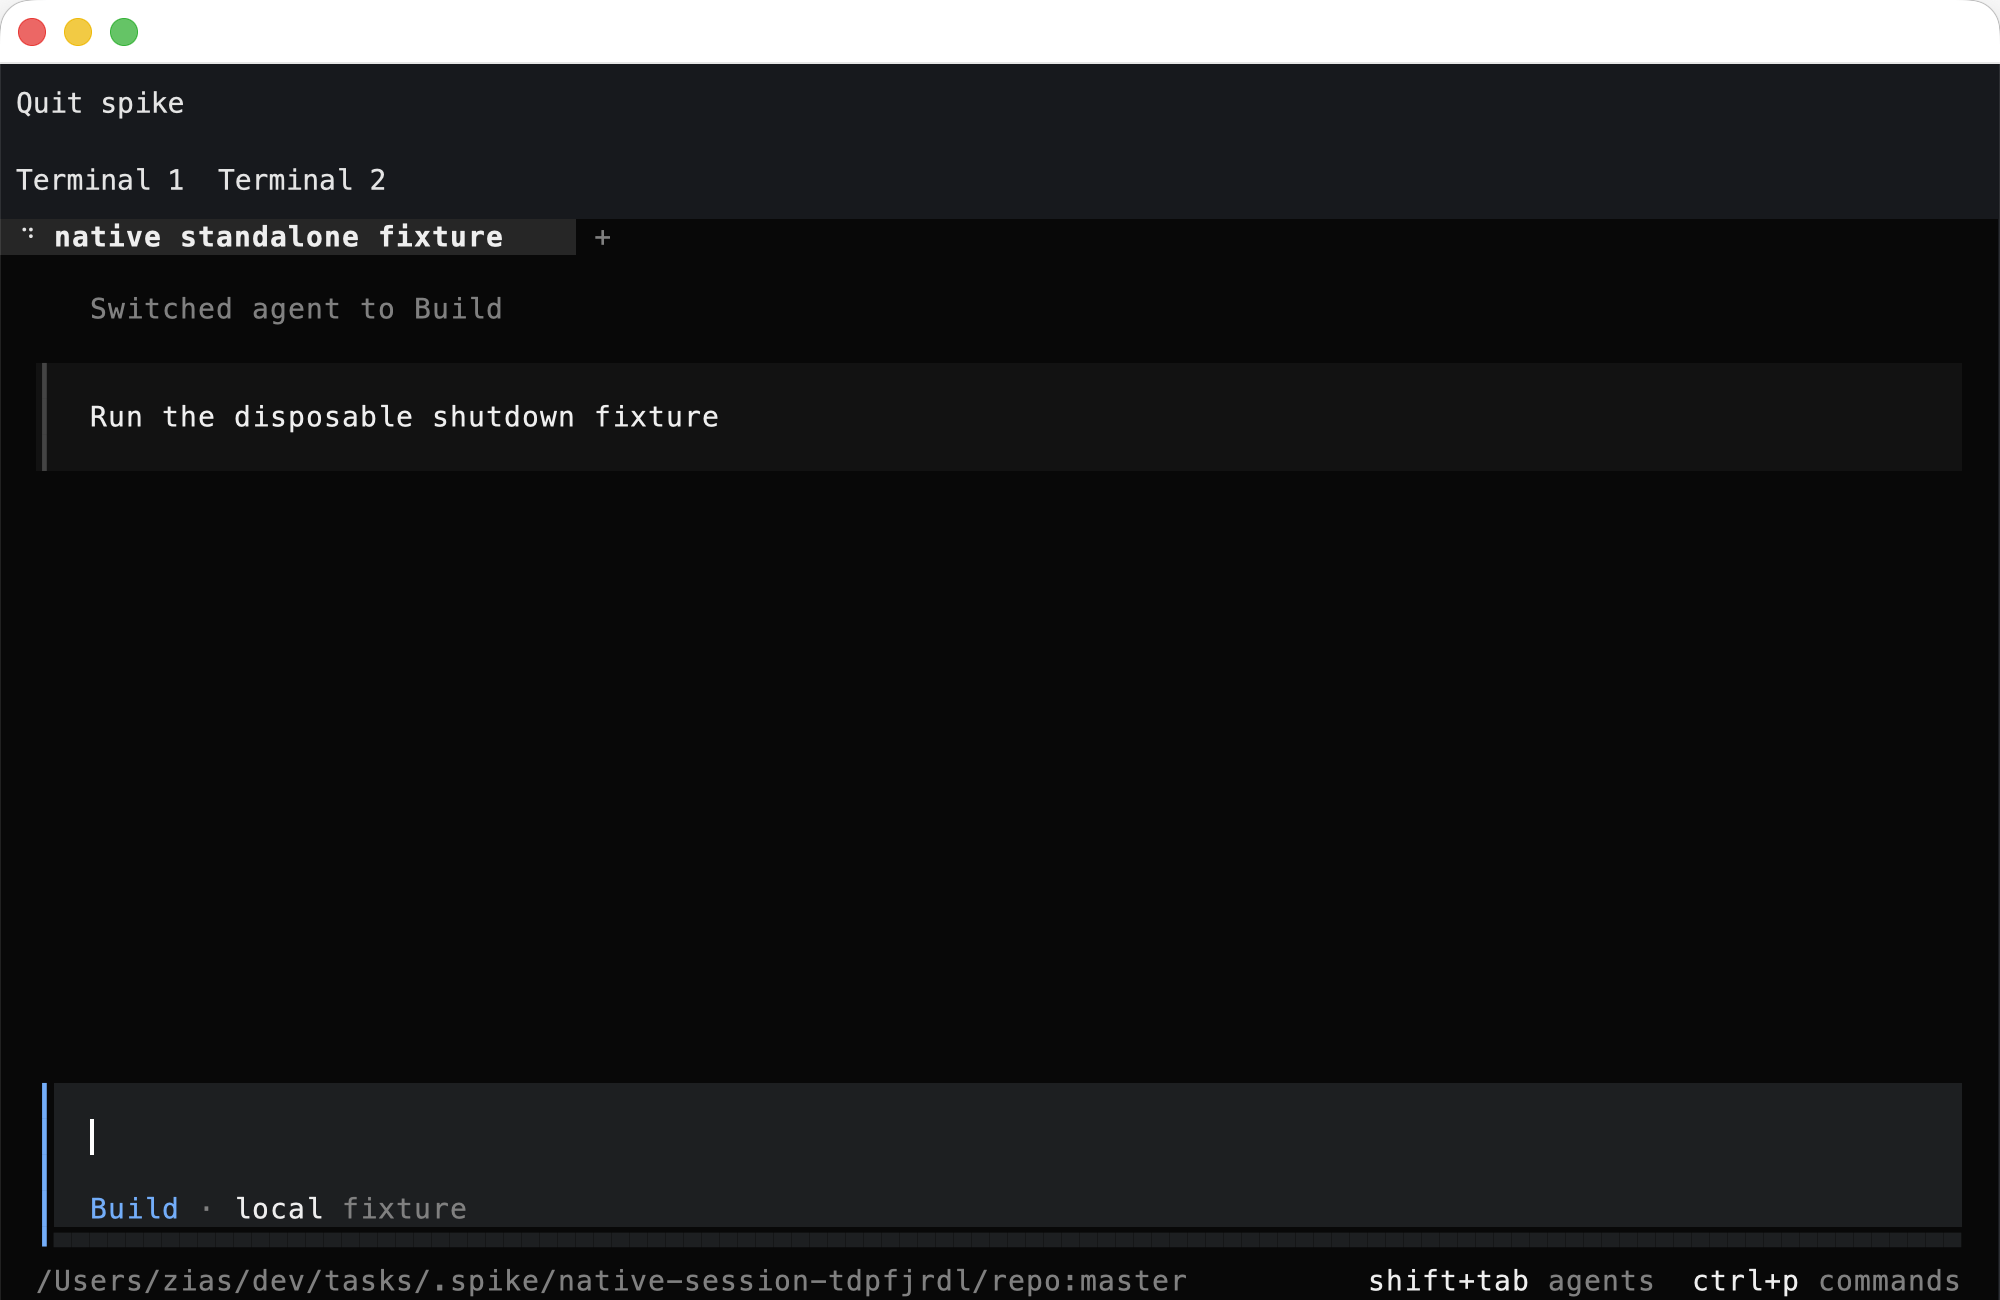
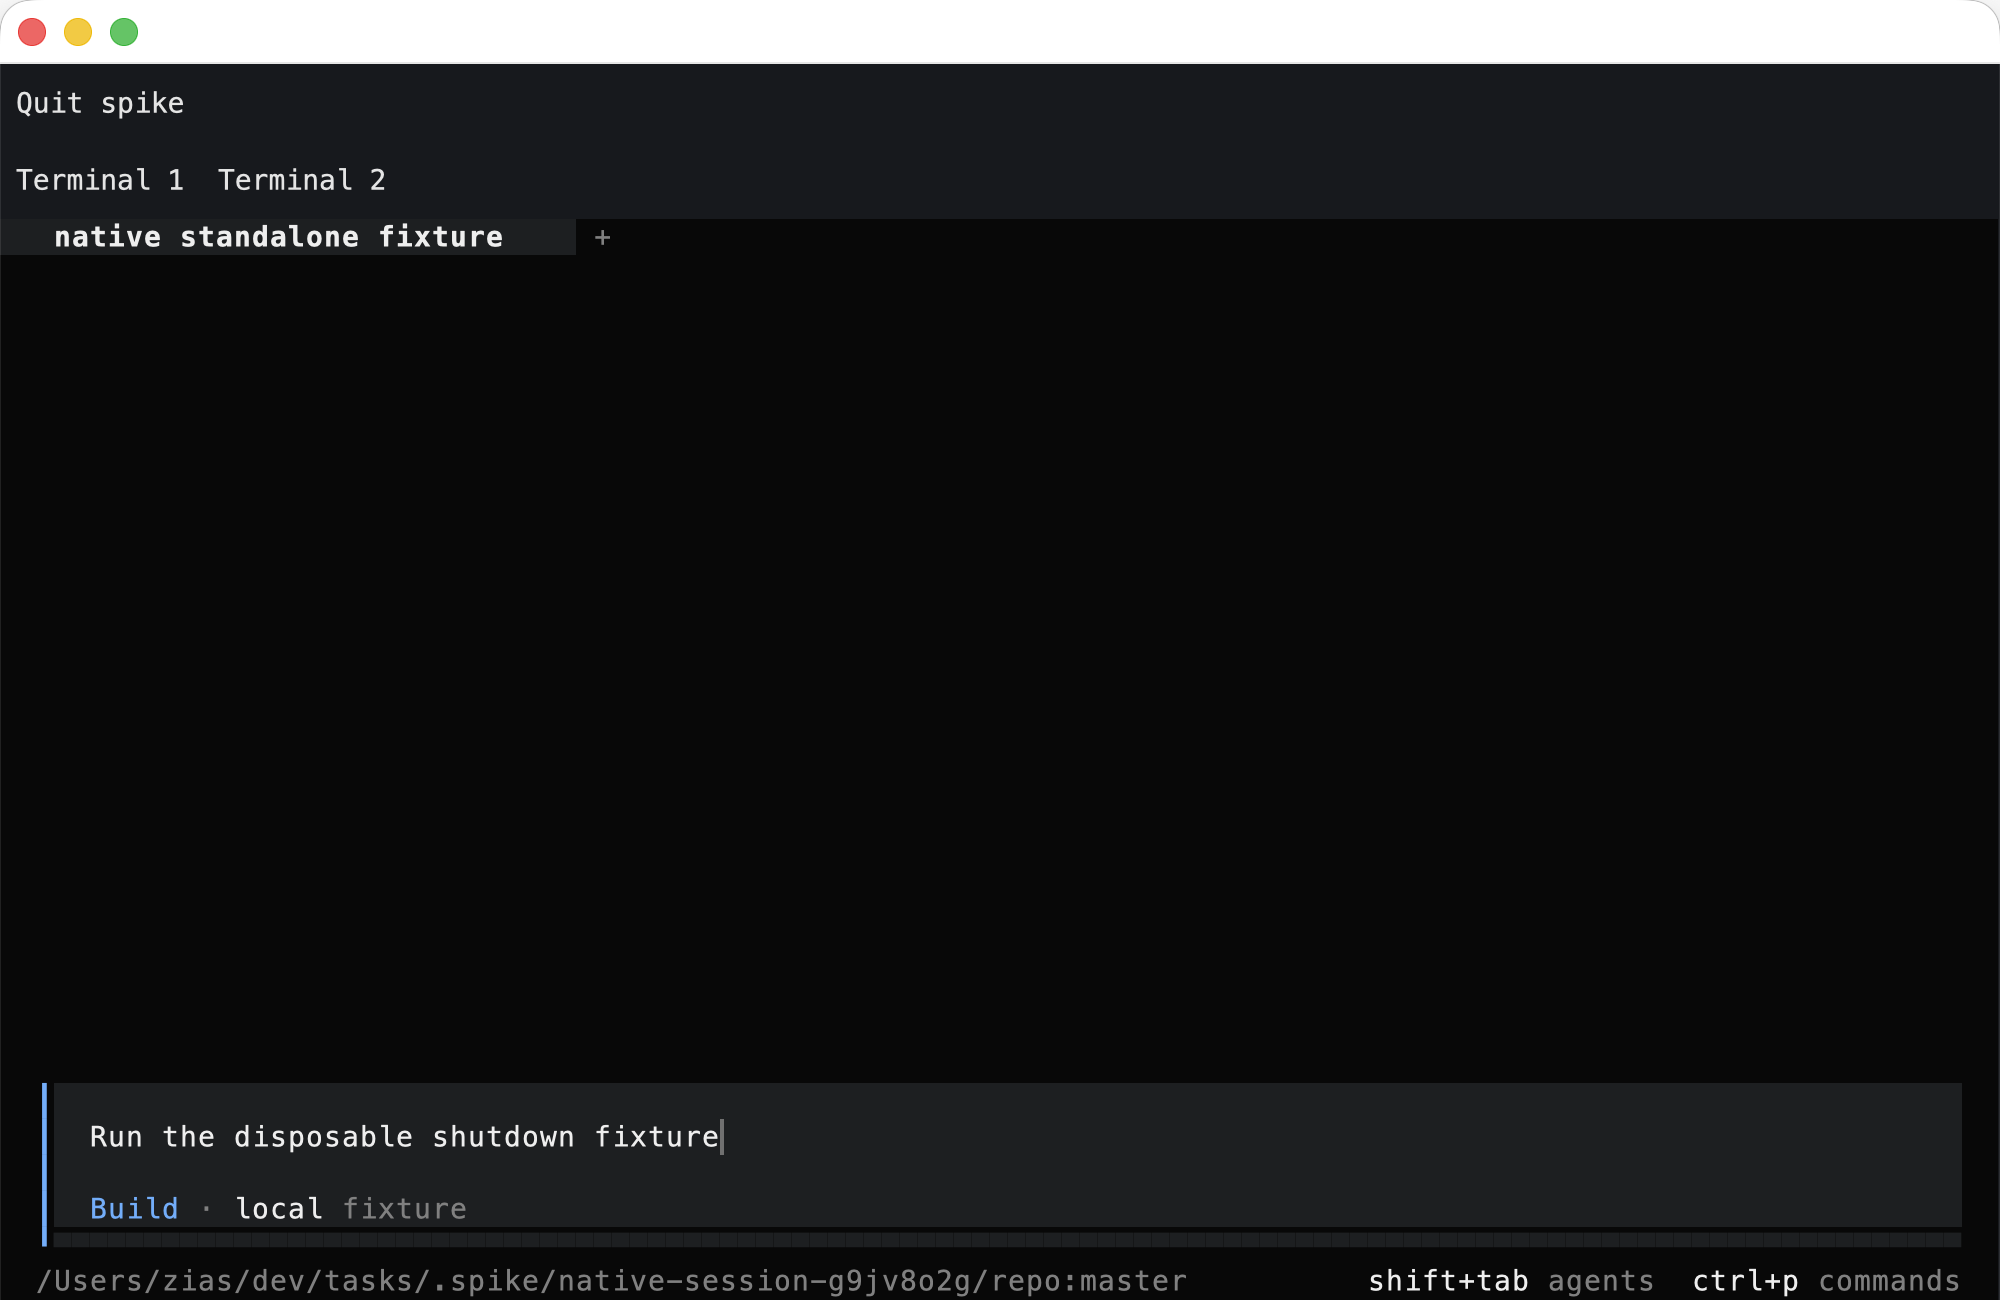
docs: record integrated terminal and platform validation evidence
Refs #2, #3, #5

diff --git a/docs/milestone-0.md b/docs/milestone-0.md
@@ -16,7 +16,7 @@ Status: **gate open**, tested 2026-10-14. Runnable spike and evidence are availa
 | Zed | 1.23.3, `/opt/homebrew/bin/zed` → `/Applications/Zed.app` |
 | Host | Apple Silicon, macOS 26.6.2, Xcode 27.0 (27A266a) |
 
-[Evidence manifest](evidence/milestone-0/tested.json) records source SHA-256 values, tool identities, fixture session IDs and check results. There is no repository commit yet; these hashes identify the tested working files. Ignored `.spike` fixtures contain private server logs and raw databases; they are not deliverables.
+[Evidence manifest](evidence/milestone-0/tested.json) records source SHA-256 values, repository commit/worktree identity, tool identities, fixture session IDs and check results. Native runs now build the application first and record both source and executable hashes; `native_evidence_source_matches` detects source changes since that run. Ignored `.spike` fixtures contain private server logs and raw databases; they are not deliverables. Remaining work is tracked in the [GitHub backlog](implementation-backlog.md).
 
 ## Results and limits
 
@@ -34,9 +34,11 @@ Status: **gate open**, tested 2026-10-14. Runnable spike and evidence are availa
 
 [Inspected screenshot](evidence/milestone-0/embedded-opencode.png) shows native spike controls, OpenCode conversation title, prompt field, model/agent selector and checkout status. The test supplies a fixture prompt directly to the PTY; it does not exercise a physical keystroke. Initial invisible text was caused by disabling GPUI defaults without enabling `font-kit`, which selected a placeholder text system. `gpui-text-smoke` reproduces text rendering independently of Ghostty.
 
-The bridge uses external `libghostty-vt`, not Ghostty's internal AppKit surface API. Rust owns PTY I/O, GPUI rendering/input and terminal entities; C isolates Ghostty's unstable ABI. Hidden terminals continue parsing bounded output batches but do not paint. A 10,000-line VT parsing check took 0.874 ms on this host; this is not end-to-end rendering latency, hidden-view CPU profiling, or an interaction benchmark. GPUI currently uses fixed 9×18 pixel cells and Menlo 14px; complex shaping, protocol completeness and accessibility still need acceptance.
+The bridge uses external `libghostty-vt`, not Ghostty's internal AppKit surface API. Rust owns PTY I/O, GPUI rendering/input and terminal entities; C isolates Ghostty's unstable ABI. Hidden terminals continue parsing bounded output batches but do not paint. The manifest records a 10,000-line VT parsing check and its `parse_ms`; this is not end-to-end rendering latency, hidden-view CPU profiling, or an interaction benchmark. GPUI currently uses fixed 9×18 pixel cells and Menlo 14px; complex shaping, protocol completeness and accessibility still need acceptance.
 
-Manual feedback confirmed text entry but found Enter did not submit. GPUI's macOS backend supplies `key_char` for Enter (`\n`) and Tab (`\t`); the prototype incorrectly deferred every unmodified `key_char` to committed-text handling. It now defers printable text only, allowing control keys through Ghostty encoding. A Rust routing regression check and sanitizer-backed C checks verify Enter produces `\r` and Tab produces `\t`. Native build and all 12 native session checks pass after this fix (`native-session-tdpfjrdl`, session `ses_ec61689fdffefOdK5v1V2c1T0C`); physical Enter/Tab re-acceptance is still pending. The regenerated screenshot was inspected for native OpenCode rendering.
+Manual feedback confirmed text entry but found Enter did not submit. GPUI's macOS backend supplies `key_char` for Enter (`\n`) and Tab (`\t`); the prototype incorrectly deferred every unmodified `key_char` to committed-text handling. It now defers printable text only, allowing control keys through Ghostty encoding. A Rust routing regression check and sanitizer-backed C checks verify Enter produces `\r` and Tab produces `\t`. Native build and all 12 native session checks passed after this fix (`native-session-tdpfjrdl`, session `ses_ec61689fdffefOdK5v1V2c1T0C`), before physical re-acceptance. The regenerated screenshot was inspected for native OpenCode rendering.
+
+The user subsequently confirmed the repaired Enter/input flow works. Issue #2's integrated change adds Ghostty application mouse encoding, fractional wheel input, IME replacement/selection ranges, local preedit and cursor-cell candidate anchoring. Sanitizer-backed mouse protocol checks and the actual native session fixture pass after integration (`native-session-g9jv8o2g`, session `ses_ec6051845ffeApRPW7KhY971cP`). See [terminal validation](terminal-validation.md) for implemented behavior and remaining physical IME, mouse-release, accessibility and performance acceptance.
 
 ### Session contract observed in OpenCode v2.0.10
 
@@ -77,7 +79,7 @@ python3 scripts/inspect_provider_contracts.py
 python3 scripts/record_evidence.py
 ```
 
-Run native checks sequentially: they open windows and screenshot a fixed screen rectangle. The fixture can take about a minute. Screenshot capture requires an available desktop/screen capture; inspect every new capture. `record_evidence.py` copies available results, including failures; it does not certify acceptance or automatically inspect screenshots. Cargo currently reports upstream future-incompatibility warnings for `block` and `proc-macro-error2`.
+Run native checks sequentially: they open windows and screenshot a fixed screen rectangle. The native session fixture rebuilds its binary before running and can take about a minute. Screenshot capture requires an available desktop/screen capture; inspect every new capture. `record_evidence.py` copies available results, including failures, and compares native-run source hashes; it does not certify acceptance or automatically inspect screenshots. Cargo currently reports upstream future-incompatibility warnings for `block` and `proc-macro-error2`.
 
 For an interactive shell without user repository changes:
 
@@ -100,6 +102,8 @@ docker run --rm -v "$PWD:/source:ro" \
 
 This does not validate future workflow modules, Ghostty on Linux or GPUI Wayland/X11. The external VT/PTY architecture avoids an AppKit terminal dependency; Linux UI build/input, fonts, clipboard and Secret Service remain follow-up work.
 
+[Platform support findings](platform-support.md) add a source-only archive checker (`python3 scripts/check_linux.py --pty`), ARM64/emulated AMD64 results and a dependency-backed macOS 13 baseline candidate. Older-host execution and deployment-target alignment remain required before claiming that baseline supported.
+
 ## Manual native acceptance — user-selected next step
 
 macOS returned `false` for System Events UI automation. The user chose manual checks. Record host/build hashes, steps, actual results and screenshots; an unperformed check remains open.
@@ -109,7 +113,7 @@ macOS returned `false` for System Events UI automation. The user chose manual ch
 3. Drag-select Unicode output, Cmd+C, and paste into a separate text editor. Copy text from that editor and Cmd+V into the shell. Check exact text, multiline handling and bracketed paste in OpenCode. Test selection at viewport edges.
 4. Run `seq 1 10000`; scroll backward/forward. Resize narrow/wide and run `stty size`; verify PTY dimensions and redraw, cursor and alternate-screen behavior. Record responsiveness during output.
 5. In Terminal 1, start `for i in 1 2 3 4 5; do echo first-$i; sleep 1; done`. Switch to Terminal 2 and run `echo second`; return to Terminal 1. Check output/state retained and input stays in the selected terminal. Check focus after clicking tabs and window deactivation/reactivation.
-6. Inspect OpenCode's keyboard navigation, clipboard, resize and mouse interactions using a disposable provider/session. Current mouse handlers select/scroll locally; forwarding application mouse protocols is not implemented. Record unsupported behavior explicitly.
+6. Inspect OpenCode's keyboard navigation, clipboard, resize and mouse interactions using a disposable provider/session. Application-requested mouse events now use Ghostty encoding; Shift-drag/Shift-scroll provide local selection/scrollback overrides. Follow the additional protocol/composition checks in [terminal validation](terminal-validation.md) and record unsupported behavior explicitly.
 7. Check visible focus and labeled controls with macOS Accessibility Inspector/VoiceOver. Terminal cells are custom canvas paint; screen-reader text/navigation is not implemented or accepted.
 8. Run the native session fixture. Inspect its screenshot, strict history check and unrelated-agent result. Check Cmd+Q and **Quit spike** manually as well as the fixture timer's actual `cx.quit()` path. A passing ordinary tool test does not resolve stubborn-child/failure handling.
 9. Run `check_zed.py`; confirm Zed shows the exact evidence `worktree` path. Leave unrelated editor windows intact.
